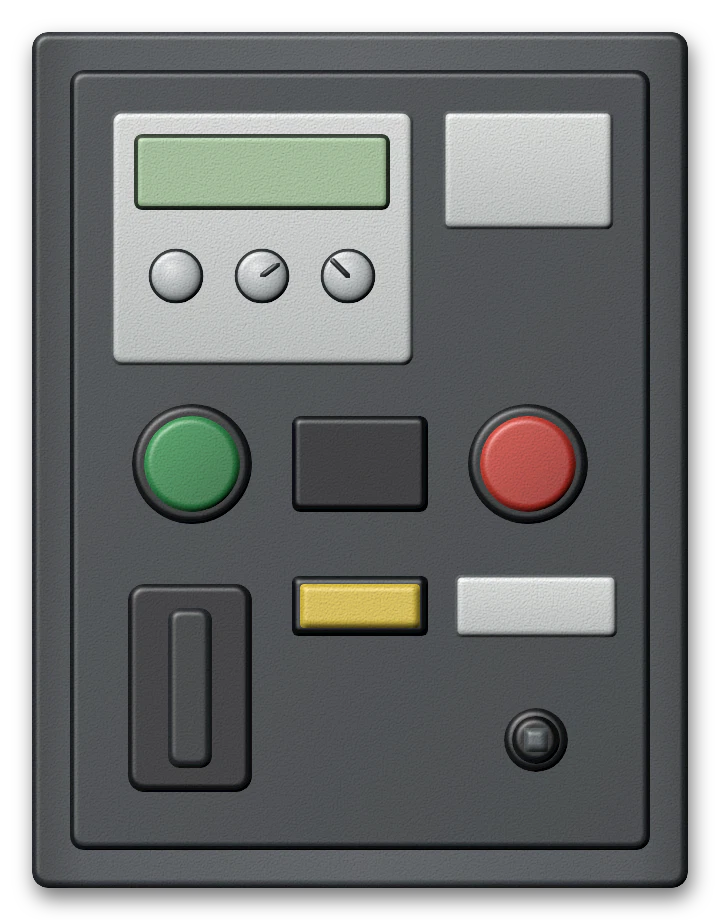
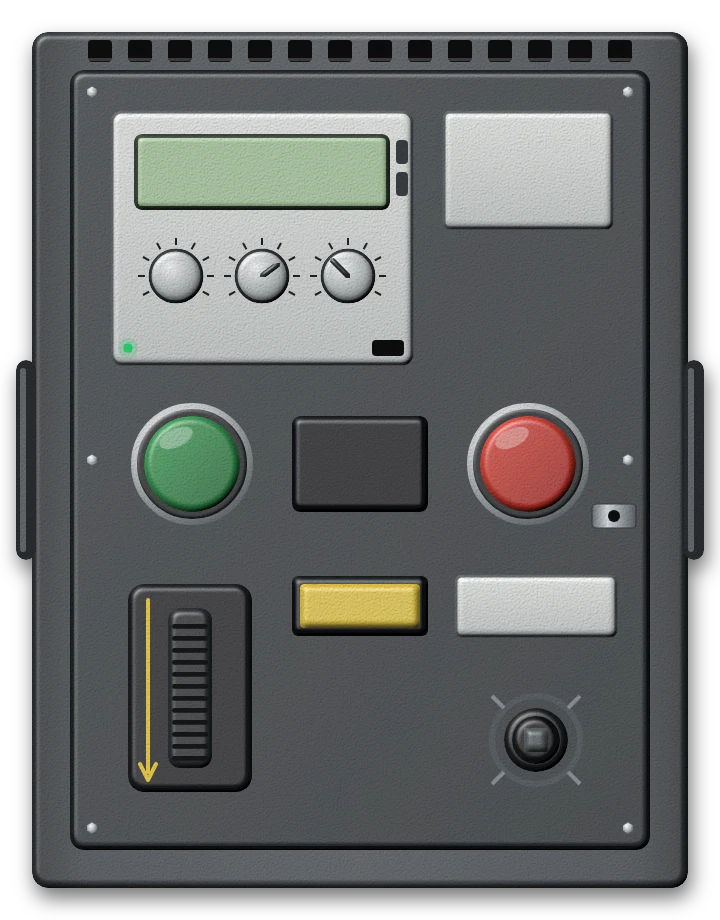
Alternador, ACB y compresores con más detalle (4.16.5)
- Capa de detalles hecha a mano sobre el SVG, con el mismo acabado: pernos, bridas, válvulas, manómetros, escarcha en la succión, placas grabadas, rejillas y cables.
- Alternador con placa STAMFORD HCI534F, ACB con escalas de los diales y candado, compresores con placas WEG, Vilter VMC 450 XL y MYCOM; solo datos de las fichas o de las fotos.
- 599 pruebas, 0 fallos.

diff --git a/tools/dibujos_realistas/a_mano/_piezas.py b/tools/dibujos_realistas/a_mano/_piezas.py
@@ -1,0 +1,113 @@
+"""Piezas de detalle para los dibujos hechos a mano sobre su SVG: pernos, bridas, válvulas, manómetros,
+escarcha, placas con texto y rejillas. Sus degradados y filtros van en DEFS (prefijo am_)."""
+import math
+
+DEFS = '''
+<radialGradient id="am_acero" cx="0.36" cy="0.3" r="0.85"><stop offset="0" stop-color="#ffffff"/><stop offset="0.45" stop-color="#c3c8cb"/><stop offset="1" stop-color="#4f5558"/></radialGradient>
+<linearGradient id="am_tubo" x1="0" y1="0" x2="0" y2="1"><stop offset="0" stop-color="#fff" stop-opacity="0.45"/><stop offset="0.35" stop-color="#fff" stop-opacity="0"/><stop offset="1" stop-color="#000" stop-opacity="0.35"/></linearGradient>
+<linearGradient id="am_brida" x1="0" y1="0" x2="1" y2="0"><stop offset="0" stop-color="#6c7276"/><stop offset="0.35" stop-color="#d5d9db"/><stop offset="1" stop-color="#5a6064"/></linearGradient>
+<linearGradient id="am_bridaV" x1="0" y1="0" x2="0" y2="1"><stop offset="0" stop-color="#6c7276"/><stop offset="0.35" stop-color="#d5d9db"/><stop offset="1" stop-color="#5a6064"/></linearGradient>
+<linearGradient id="am_placa" x1="0" y1="0" x2="1" y2="1"><stop offset="0" stop-color="#f2f4f4"/><stop offset="0.45" stop-color="#c6ccd0"/><stop offset="0.6" stop-color="#e9ecee"/><stop offset="1" stop-color="#b0b7bb"/></linearGradient>
+<linearGradient id="am_cable" x1="0" y1="0" x2="1" y2="0"><stop offset="0" stop-color="#0a0b0c"/><stop offset="0.35" stop-color="#4a4f53"/><stop offset="1" stop-color="#0d0e10"/></linearGradient>
+<filter id="am_escarcha" x="0" y="0" width="100%" height="100%">
+ <feTurbulence type="fractalNoise" baseFrequency="0.9" numOctaves="3" seed="9" result="n"/>
+ <feColorMatrix in="n" type="matrix" values="0 0 0 0 1  0 0 0 0 1  0 0 0 0 1  0 0 0 9 -4.2" result="m"/>
+ <feComposite in="m" in2="SourceAlpha" operator="in"/>
+</filter>
+'''
+
+
+def perno(x, y, r=3.2):
+    return (f'<polygon points="{_hex(x, y, r)}" fill="#596064"/>'
+            f'<polygon points="{_hex(x, y, r * 0.86)}" fill="url(#am_acero)"/>')
+
+
+def _hex(x, y, r):
+    return " ".join(f"{x + r * math.cos(math.radians(30 + 60 * i)):.1f},{y + r * math.sin(math.radians(30 + 60 * i)):.1f}" for i in range(6))
+
+
+def tuerca_pernos(cx, cy, r, n=6, rp=1.8):
+    return "".join(perno(cx + r * math.cos(2 * math.pi * i / n), cy + r * math.sin(2 * math.pi * i / n), rp) for i in range(n))
+
+
+def brida(x, y, grosor, vertical=False):
+    """Par de bridas atornilladas en un tubo de diámetro «grosor», centrado en (x, y)."""
+    if vertical:
+        w, h = grosor + 10, 7
+        s = f'<rect x="{x - w / 2}" y="{y - h}" width="{w}" height="{2 * h}" rx="1.5" fill="url(#am_bridaV)" stroke="#3b4043" stroke-width="0.6"/>'
+        s += f'<path d="M{x - w / 2},{y} H{x + w / 2}" stroke="#2a2e31" stroke-width="1"/>'
+        s += perno(x - w / 2 + 3, y - 3.5, 1.6) + perno(x + w / 2 - 3, y - 3.5, 1.6) + perno(x - w / 2 + 3, y + 3.5, 1.6) + perno(x + w / 2 - 3, y + 3.5, 1.6)
+    else:
+        w, h = 7, grosor + 10
+        s = f'<rect x="{x - w}" y="{y - h / 2}" width="{2 * w}" height="{h}" rx="1.5" fill="url(#am_brida)" stroke="#3b4043" stroke-width="0.6"/>'
+        s += f'<path d="M{x},{y - h / 2} V{y + h / 2}" stroke="#2a2e31" stroke-width="1"/>'
+        s += perno(x - 3.5, y - h / 2 + 3, 1.6) + perno(x + 3.5, y - h / 2 + 3, 1.6) + perno(x - 3.5, y + h / 2 - 3, 1.6) + perno(x + 3.5, y + h / 2 - 3, 1.6)
+    return s
+
+
+def valvula(x, y, r=9, color="#c0392b"):
+    """Válvula de cierre con su volante, vista de frente sobre el tubo."""
+    s = f'<rect x="{x - 6}" y="{y - 6}" width="12" height="12" rx="2" fill="#5a6064"/>'
+    s += f'<path d="M{x},{y - 6} V{y - 14}" stroke="#8a9094" stroke-width="3"/>'
+    s += f'<circle cx="{x}" cy="{y - 16}" r="{r}" fill="none" stroke="{color}" stroke-width="3"/>'
+    for i in range(3):
+        a = math.pi * 2 * i / 3 + 0.3
+        s += f'<path d="M{x},{y - 16} L{x + r * math.cos(a):.1f},{y - 16 + r * math.sin(a):.1f}" stroke="{color}" stroke-width="2"/>'
+    s += f'<circle cx="{x}" cy="{y - 16}" r="2.2" fill="#2a2e31"/>'
+    return s
+
+
+def manometro(x, y, r, angulo=0.3, color_arco="#2f9e57"):
+    """Manómetro con esfera blanca, escala, zona de color y aguja."""
+    s = f'<circle cx="{x}" cy="{y}" r="{r + 2}" fill="url(#am_acero)"/>'
+    s += f'<circle cx="{x}" cy="{y}" r="{r}" fill="#f6f6f2" stroke="#2a2e31" stroke-width="0.8"/>'
+    for i in range(11):
+        a = math.radians(135 + i * 27)
+        s += f'<path d="M{x + r * 0.78 * math.cos(a):.1f},{y + r * 0.78 * math.sin(a):.1f} L{x + r * 0.92 * math.cos(a):.1f},{y + r * 0.92 * math.sin(a):.1f}" stroke="#20242a" stroke-width="0.7"/>'
+    a0, a1 = math.radians(135), math.radians(135 + 135)
+    s += (f'<path d="M{x + r * 0.7 * math.cos(a0):.1f},{y + r * 0.7 * math.sin(a0):.1f} A{r * 0.7:.1f},{r * 0.7:.1f} 0 0 1 {x + r * 0.7 * math.cos(a1):.1f},{y + r * 0.7 * math.sin(a1):.1f}" '
+          f'fill="none" stroke="{color_arco}" stroke-width="1.6" opacity="0.8"/>')
+    a = math.radians(135 + 270 * angulo)
+    s += f'<path d="M{x},{y} L{x + r * 0.8 * math.cos(a):.1f},{y + r * 0.8 * math.sin(a):.1f}" stroke="#c0392b" stroke-width="1.3" stroke-linecap="round"/>'
+    s += f'<circle cx="{x}" cy="{y}" r="1.6" fill="#20242a"/>'
+    s += f'<ellipse cx="{x - r * 0.3:.1f}" cy="{y - r * 0.45:.1f}" rx="{r * 0.5:.1f}" ry="{r * 0.22:.1f}" fill="#fff" opacity="0.55"/>'
+    return s
+
+
+def escarcha(d, ancho):
+    """Escarcha sobre un tubo frío: puntos blancos sobre el mismo trazado."""
+    return (f'<path d="{d}" fill="none" stroke="#dff3ff" stroke-width="{ancho}" stroke-linejoin="round" opacity="0.35"/>'
+            f'<path d="{d}" fill="none" stroke="#ffffff" stroke-width="{ancho}" stroke-linejoin="round" filter="url(#am_escarcha)" opacity="0.9"/>')
+
+
+def brillo_tubo(d, ancho):
+    return f'<path d="{d}" fill="none" stroke="#fff" stroke-opacity="0.35" stroke-width="{max(1.2, ancho * 0.18):.1f}" transform="translate(0,-{ancho * 0.22:.1f})" stroke-linejoin="round"/>'
+
+
+def placa(x, y, w, h, lineas, tam=5.2, titulo=None):
+    """Placa de aluminio remachada con texto grabado; «titulo» en negrita arriba."""
+    s = f'<rect x="{x}" y="{y}" width="{w}" height="{h}" rx="1.5" fill="url(#am_placa)" stroke="#4f5558" stroke-width="0.8"/>'
+    for px, py in ((x + 3, y + 3), (x + w - 3, y + 3), (x + 3, y + h - 3), (x + w - 3, y + h - 3)):
+        s += f'<circle cx="{px}" cy="{py}" r="1.3" fill="#6c7276"/>'
+    yy = y + 3 + tam * 1.15
+    if titulo:
+        s += f'<text x="{x + w / 2}" y="{yy}" text-anchor="middle" style="font:800 {tam * 1.25:.1f}px Plex;fill:#1d2226;letter-spacing:.06em">{titulo}</text>'
+        yy += tam * 1.35
+    for l in lineas:
+        s += f'<text x="{x + w / 2}" y="{yy}" text-anchor="middle" style="font:600 {tam}px Plex;fill:#2a3034">{l}</text>'
+        yy += tam * 1.22
+    return s
+
+
+def rejilla(x, y, w, h, n, vertical=False, color="#0d1114"):
+    s = ""
+    for i in range(n):
+        if vertical:
+            xx = x + (i + 0.5) * w / n
+            s += f'<rect x="{xx - 1.6:.1f}" y="{y}" width="3.2" height="{h}" rx="1.6" fill="{color}"/>'
+            s += f'<rect x="{xx + 1.6:.1f}" y="{y}" width="0.9" height="{h}" fill="#fff" opacity="0.25"/>'
+        else:
+            yy = y + (i + 0.5) * h / n
+            s += f'<rect x="{x}" y="{yy - 1.6:.1f}" width="{w}" height="3.2" rx="1.6" fill="{color}"/>'
+            s += f'<rect x="{x}" y="{yy + 1.6:.1f}" width="{w}" height="0.9" fill="#fff" opacity="0.25"/>'
+    return s

diff --git a/tools/dibujos_realistas/a_mano/alternador.py b/tools/dibujos_realistas/a_mano/alternador.py
@@ -1,0 +1,57 @@
+"""Diésel-generador (480×340) sobre su SVG: tapas de balancines con pernos, inyectores, escape con
+fuelle, filtro de aceite, varilla, volante atornillado, alternador con rejillas, cáncamos, caja de
+bornes con prensaestopas, placa de datos grabada, soportes antivibratorios y cable de tierra."""
+import os
+import realzar as R
+from a_mano import _piezas as P
+
+d = []
+a = d.append
+# Tapas de balancines con sus pernos y rampa de inyectores
+for i in range(6):
+    x = 58 + i * 25
+    a(f'<rect x="{x}" y="72" width="22" height="20" rx="4" fill="#3b5848" stroke="#1d2b24" stroke-width="0.8"/>')
+    a(P.perno(x + 5, 77, 2) + P.perno(x + 17, 77, 2))
+    a(f'<path d="M{x + 11},94 V108" stroke="#c9ced1" stroke-width="2"/>')
+a('<path d="M60,108 H212" stroke="#aeb4b7" stroke-width="3" stroke-linecap="round"/>')
+a(P.brillo_tubo("M60,108 H212", 3))
+# Escape desde el turbo con su fuelle y aislamiento térmico
+a('<path d="M44,80 V22" stroke="#6b4a36" stroke-width="16" stroke-linecap="round"/>')
+for y in range(30, 70, 6):
+    a(f'<rect x="35" y="{y}" width="18" height="3" rx="1.5" fill="#3a271c" opacity="0.7"/>')
+a('<path d="M44,80 V22" stroke="url(#am_tubo)" stroke-width="16"/>')
+a('<rect x="33" y="70" width="22" height="7" rx="2" fill="url(#am_bridaV)"/>')
+# Filtro de aceite y varilla
+a('<rect x="196" y="176" width="20" height="42" rx="5" fill="#2f5d86" stroke="#173149" stroke-width="0.8"/>')
+a('<rect x="196" y="176" width="20" height="42" rx="5" fill="url(#am_brida)" opacity="0.35"/>')
+a('<rect x="194" y="172" width="24" height="6" rx="2" fill="#5a6064"/>')
+a('<path d="M62,236 V214" stroke="#9aa0a3" stroke-width="2"/><rect x="57" y="208" width="10" height="7" rx="3" fill="#f2c200"/>')
+# Pernos del cárter y del volante
+for x in range(50, 222, 20):
+    a(P.perno(x, 240, 2.2))
+for y in range(146, 258, 18):
+    a(P.perno(246, y, 2.4))
+# Alternador: rejillas del lado del acoplamiento, cáncamos y pernos de la excitatriz
+a(P.rejilla(268, 136, 26, 84, 9))
+for x in (282, 414):
+    a(f'<circle cx="{x}" cy="114" r="6" fill="none" stroke="#2c3238" stroke-width="5"/>')
+    a(f'<circle cx="{x}" cy="114" r="6" fill="none" stroke="#9aa6b0" stroke-width="2.5"/>')
+for y in (146, 244):
+    a(P.perno(444, y, 2.6))
+# Caja de bornes: tornillos de la tapa y prensaestopas de latón en los cables
+for x, y in ((304, 82), (388, 82), (304, 118), (388, 118)):
+    a(P.perno(x, y, 2.4))
+for x in (318, 346, 374):
+    a(f'<circle cx="{x}" cy="74" r="8" fill="none" stroke="#b8963a" stroke-width="3"/>')
+    a(f'<path d="M{x - 2},66 V42" stroke="#fff" stroke-opacity="0.25" stroke-width="1.5"/>')
+# Placa de datos con el texto grabado (datos de la ficha)
+a(P.placa(326, 186, 78, 42, ["HCI534F · 565 kVA · 452 kW", "380 V · 50 Hz · 1500 r/min", "IP23 · Ins. H · cos φ 0,8"], 4.4, "STAMFORD"))
+# Soportes antivibratorios con su perno
+for x in (48, 240, 432):
+    a(f'<rect x="{x - 18}" y="298" width="36" height="5" rx="2" fill="#3a3e42"/>')
+    a(P.perno(x, 304, 3))
+# Cable de tierra verde y amarillo del alternador a la bancada
+a('<path d="M424,262 C428,276 432,284 440,292" stroke="#35b552" stroke-width="5" fill="none" stroke-linecap="round"/>')
+a('<path d="M424,262 C428,276 432,284 440,292" stroke="#f2c200" stroke-width="5" fill="none" stroke-dasharray="5 5" stroke-linecap="round"/>')
+
+ANCHO, ALTO, CUERPO = R.automatico(os.path.join(R.REPO, "art", "equipos", "alternador.svg"), "".join(d), P.DEFS)

diff --git a/tools/dibujos_realistas/a_mano/acb.py b/tools/dibujos_realistas/a_mano/acb.py
@@ -1,0 +1,49 @@
+"""Interruptor de bastidor abierto (360×460) sobre su SVG: rejillas de la cámara de corte, asas del
+chasis, tornillos de la tapa, escalas de los diales de la unidad de disparo, botones de la unidad,
+aros de los pulsadores I y O, candado de bloqueo en abierto, palanca de carga con su agarre y
+manivela de extracción."""
+import math, os
+import realzar as R
+from a_mano import _piezas as P
+
+d = []
+a = d.append
+# Rejillas de la cámara de corte, arriba del chasis
+for i in range(14):
+    x = 44 + i * 20
+    a(f'<rect x="{x}" y="20" width="12" height="11" rx="2" fill="#0a0b0c"/>')
+    a(f'<rect x="{x}" y="29" width="12" height="1.6" fill="#fff" opacity="0.2"/>')
+# Asas del chasis a los lados, para sacarlo del cubículo
+for x in (8, 342):
+    a(f'<rect x="{x}" y="180" width="10" height="100" rx="5" fill="#2a2d30"/>')
+    a(f'<rect x="{x + 2}" y="184" width="3" height="92" rx="1.5" fill="#8a9094" opacity="0.6"/>')
+# Tornillos de la tapa frontal
+for x, y in ((46, 46), (314, 46), (46, 414), (314, 414), (46, 230), (314, 230)):
+    a(P.perno(x, y, 3.2))
+# Escalas de los diales Ir, Isd e Ii
+for cx in (88, 131, 174):
+    for i in range(9):
+        ang = math.radians(150 + i * 30)
+        r1, r2 = 15.5, 19
+        a(f'<path d="M{cx + r1 * math.cos(ang):.1f},{138 + r1 * math.sin(ang):.1f} L{cx + r2 * math.cos(ang):.1f},{138 + r2 * math.sin(ang):.1f}" stroke="#1d2226" stroke-width="1"/>')
+# Botones y conector de prueba de la unidad de disparo
+for i, y in enumerate((70, 86)):
+    a(f'<rect x="198" y="{y}" width="6" height="12" rx="2" fill="#3a3e42"/>')
+a('<rect x="186" y="170" width="16" height="8" rx="2" fill="#0d0f11"/>')
+a('<circle cx="64" cy="174" r="2.4" fill="#2ecc71"/><circle cx="64" cy="174" r="5" fill="#2ecc71" opacity="0.25"/>')
+# Aros cromados de los pulsadores I y O con su protector
+for cx in (96, 264):
+    a(f'<circle cx="{cx}" cy="232" r="29" fill="none" stroke="url(#am_acero)" stroke-width="3"/>')
+    a(f'<ellipse cx="{cx - 8}" cy="219" rx="9" ry="4.5" fill="#fff" opacity="0.35" transform="rotate(-25 {cx - 8} 219)"/>')
+# Candado de bloqueo en abierto junto al pulsador O
+a('<rect x="296" y="252" width="22" height="12" rx="2" fill="url(#am_brida)" stroke="#3b4043" stroke-width="0.6"/>')
+a('<circle cx="307" cy="258" r="3" fill="#0d0f11"/>')
+# Agarre estriado de la palanca de carga y flecha de sentido
+for y in range(312, 380, 6):
+    a(f'<rect x="86" y="{y}" width="18" height="2.4" rx="1.2" fill="#14171a"/>')
+a('<path d="M74,300 V386 M70,382 L74,390 L78,382" stroke="#e3c84f" stroke-width="2" fill="none" stroke-linecap="round" stroke-linejoin="round"/>')
+# Manivela de extracción con su escudo
+a('<circle cx="268" cy="370" r="22" fill="none" stroke="#5a6064" stroke-width="3"/>')
+a('<path d="M246,348 L252,354 M290,348 L284,354 M246,392 L252,386 M290,392 L284,386" stroke="#8a9094" stroke-width="2"/>')
+
+ANCHO, ALTO, CUERPO = R.automatico(os.path.join(R.REPO, "art", "equipos", "acb.svg"), "".join(d), P.DEFS)

diff --git a/tools/dibujos_realistas/a_mano/compresor_tornillo.py b/tools/dibujos_realistas/a_mano/compresor_tornillo.py
@@ -1,0 +1,36 @@
+"""Compresor de tornillo MYCOM de NH3 (480×320) sobre su SVG: escarcha en la succión, bridas,
+válvula de succión, manómetros, protector del acoplamiento, costuras soldadas del separador y placas."""
+import os
+import realzar as R
+from a_mano import _piezas as P
+
+SUCCION = "M210,160 V90 H170"
+DESCARGA = "M300,160 V112 H372"
+d = []
+a = d.append
+a(P.escarcha(SUCCION, 14))
+a(P.brillo_tubo(DESCARGA, 14))
+a(P.brida(210, 150, 14, True))
+a(P.brida(186, 90, 14))
+a(P.brida(352, 112, 14))
+a(P.brida(410, 38, 12, True))
+# Válvula de succión con el volante hacia la izquierda
+a('<rect x="204" y="114" width="12" height="12" rx="2" fill="#5a6064"/><path d="M204,120 H196" stroke="#8a9094" stroke-width="3"/>')
+a('<circle cx="190" cy="120" r="7" fill="none" stroke="#2f6fb0" stroke-width="3"/><circle cx="190" cy="120" r="2" fill="#2a2e31"/>')
+# Manómetros de succión y de descarga
+a('<path d="M217,104 H228" stroke="#8a9094" stroke-width="3"/>' + P.manometro(236, 104, 8, 0.25))
+a('<path d="M410,58 H452" stroke="#8a9094" stroke-width="3"/>' + P.manometro(460, 58, 8, 0.55, "#c0392b"))
+# Costuras soldadas del separador
+for y in (96, 214):
+    a(f'<path d="M374,{y} H446" stroke="#000" stroke-opacity="0.35" stroke-width="2"/>')
+    a(f'<path d="M374,{y + 2} H446" stroke="#fff" stroke-opacity="0.25" stroke-width="1"/>')
+# Protector del acoplamiento
+a('<rect x="152" y="182" width="30" height="50" rx="4" fill="#d9a400" stroke="#6b5200" stroke-width="0.8"/>')
+for fila in range(6):
+    for col in range(3):
+        a(f'<circle cx="{159 + col * 8}" cy="{189 + fila * 7.5}" r="2" fill="#2a2000"/>')
+# Placas del motor y del compresor
+a(P.placa(96, 226, 50, 22, ["380 V · 50 Hz"], 4.2, "MOTOR"))
+a(P.placa(186, 212, 40, 20, ["NH3 · R-717"], 4.0, "MYCOM"))
+
+ANCHO, ALTO, CUERPO = R.automatico(os.path.join(R.REPO, "art", "equipos", "compresor_tornillo.svg"), "".join(d), P.DEFS)

diff --git a/tools/dibujos_realistas/a_mano/compresor_piston.py b/tools/dibujos_realistas/a_mano/compresor_piston.py
@@ -1,0 +1,32 @@
+"""Compresor de pistón Vilter de NH3 (480×320) sobre su SVG: escarcha en la succión, bridas,
+válvula de succión, manómetros de succión, descarga y aceite, protector del acoplamiento y placas
+del motor y del compresor (datos de la ficha)."""
+import os
+import realzar as R
+from a_mano import _piezas as P
+
+SUCCION = "M350,150 H404 V110 H470"
+DESCARGA = "M204,66 H440 V20"
+d = []
+a = d.append
+a(P.escarcha(SUCCION, 14))
+a(P.brillo_tubo(DESCARGA, 12))
+a(P.brida(378, 66, 12))
+a(P.brida(440, 40, 12, True))
+a(P.brida(372, 150, 14))
+a(P.brida(404, 128, 14, True))
+a(P.valvula(388, 150, 8, "#2f6fb0"))
+# Manómetros: succión (verde en vacío ligero), descarga y aceite
+a('<path d="M404,132 H416" stroke="#8a9094" stroke-width="3"/>' + P.manometro(424, 132, 8, 0.25))
+a('<path d="M440,58 H452" stroke="#8a9094" stroke-width="3"/>' + P.manometro(460, 58, 8, 0.55, "#c0392b"))
+a('<path d="M418,192 V184" stroke="#8a9094" stroke-width="3"/>' + P.manometro(418, 176, 7, 0.45))
+# Protector del acoplamiento, chapa perforada amarilla
+a('<rect x="152" y="190" width="30" height="50" rx="4" fill="#d9a400" stroke="#6b5200" stroke-width="0.8"/>')
+for fila in range(6):
+    for col in range(3):
+        a(f'<circle cx="{159 + col * 8}" cy="{197 + fila * 7.5}" r="2" fill="#2a2000"/>')
+# Placas del motor y del compresor
+a(P.placa(96, 226, 50, 24, ["75 kW · 380 V Δ · 138 A", "50 Hz"], 4.2, "WEG"))
+a(P.placa(258, 236, 52, 22, ["VMC 450 XL · NH3"], 4.2, "VILTER"))
+
+ANCHO, ALTO, CUERPO = R.automatico(os.path.join(R.REPO, "art", "equipos", "compresor_piston.svg"), "".join(d), P.DEFS)

diff --git a/tools/dibujos_realistas/realzar.py b/tools/dibujos_realistas/realzar.py
@@ -75,7 +75,9 @@ def _lleva_relieve(e):
     return True
 
 
-def automatico(ruta_svg):
+def automatico(ruta_svg, encima="", defs_extra=""):
+    """Acabado automático. «encima»: detalles hechos a mano que se añaden sobre las piezas del SVG
+    (y reciben la misma textura y sombra); «defs_extra»: sus degradados y filtros."""
     raiz = ET.parse(ruta_svg).getroot()
     caja = [float(v) for v in raiz.get("viewBox", "0 0 %s %s" % (raiz.get("width"), raiz.get("height"))).replace(",", " ").split()]
     ancho, alto = caja[2], caja[3]
@@ -88,7 +90,7 @@ def automatico(ruta_svg):
         if _lleva_relieve(e):
             e.set("filter", "url(#rz_bisel)")
         piezas += ET.tostring(e, encoding="unicode")
-    cuerpo = (f'<defs>{FILTROS_AUTO}{defs}<g id="rz_todo">{piezas}</g></defs>'
+    cuerpo = (f'<defs>{FILTROS_AUTO}{C.FILTROS}{defs_extra}{defs}<g id="rz_todo">{piezas}{encima}</g></defs>'
               '<use xlink:href="#rz_todo" filter="url(#rz_sombra)"/>'
               '<g filter="url(#rz_textura)"><use xlink:href="#rz_todo"/></g>')
     # ElementTree escribe el espacio de nombres en cada elemento; el SVG en línea no lo necesita.

diff --git a/README.md b/README.md
@@ -321,7 +321,7 @@ La ficha de equipo (`ui/screens/ficha.gd`) y el atlas (`ui/screens/atlas.gd`) si
 - **Atlas:** placa de datos como una chapa remachada; pasos de la animación como monedas que se encienden; lecturas de Medir y de Fallas en visores negros, verdes si son normales y rojas si indican falla; fallas con su lámpara roja (`BotonAri.lampara`) y mantenimiento con casillas de relieve.
 - **Pruebas** en `tests/test_rediseno_d.gd`. Las capturas se hacen con `godot --path . --script res://tests/capturar.gd -- build/capturas_d fichas_d`.
 
-## Dibujos realistas de los equipos (versiones 4.16.2 a 4.16.4)
+## Dibujos realistas de los equipos (versiones 4.16.2 a 4.16.5)
 
 Godot solo dibuja degradados al leer un SVG. Para que los equipos se vean casi como una foto, sus dibujos se preparan fuera del juego con textura, relieve con luz y sombras difuminadas, y se guardan como imagen en `art/realista/` (por ejemplo, `art/equipos/contactor.svg` pasa a `art/realista/equipos/contactor.webp`).
 
@@ -331,7 +331,7 @@ Godot solo dibuja degradados al leer un SVG. Para que los equipos se vean casi c
   - `python tools/dibujos_realistas/realzar.py todas` rehace los dibujos de todas las fichas (74); `taller`, los de la mesa; `faltan`, solo los que no tienen imagen; `electricidad`, la tanda del módulo 7;
   - `python tools/dibujos_realistas/realzar.py art/equipos/<nombre>.svg` rehace uno;
   - el acabado automático da relieve a cada pieza del SVG, una textura fina y la sombra;
-  - un dibujo con guion propio en `a_mano/<nombre>.py` (`ANCHO`, `ALTO` y `CUERPO`) se toma de allí: así están el motor trifásico y el contactor;
+  - un dibujo con guion propio en `a_mano/<nombre>.py` (`ANCHO`, `ALTO` y `CUERPO`) se toma de allí. El motor trifásico y el contactor están redibujados enteros; el alternador, el ACB y los compresores de pistón y de tornillo parten de su SVG con `realzar.automatico(svg, encima, defs)` y suman una capa de detalles (`a_mano/_piezas.py`: pernos, bridas, válvulas, manómetros, escarcha, placas grabadas y rejillas);
   - después de crear imágenes nuevas, importe el proyecto y ponga en su `.import` `compress/mode=1`, `compress/lossy_quality=0.9` y `mipmaps/generate=true`.
 - **Si cambia un SVG**, vuelva a ejecutar la herramienta para ese dibujo: si no, el juego seguirá mostrando la imagen anterior.
 - **Alcance:** todas las fichas y el atlas (74 dibujos) y las piezas de la mesa del Taller y del interior de los tableros (18 más; la mesa los toma en `VistaMesa._textura`).
